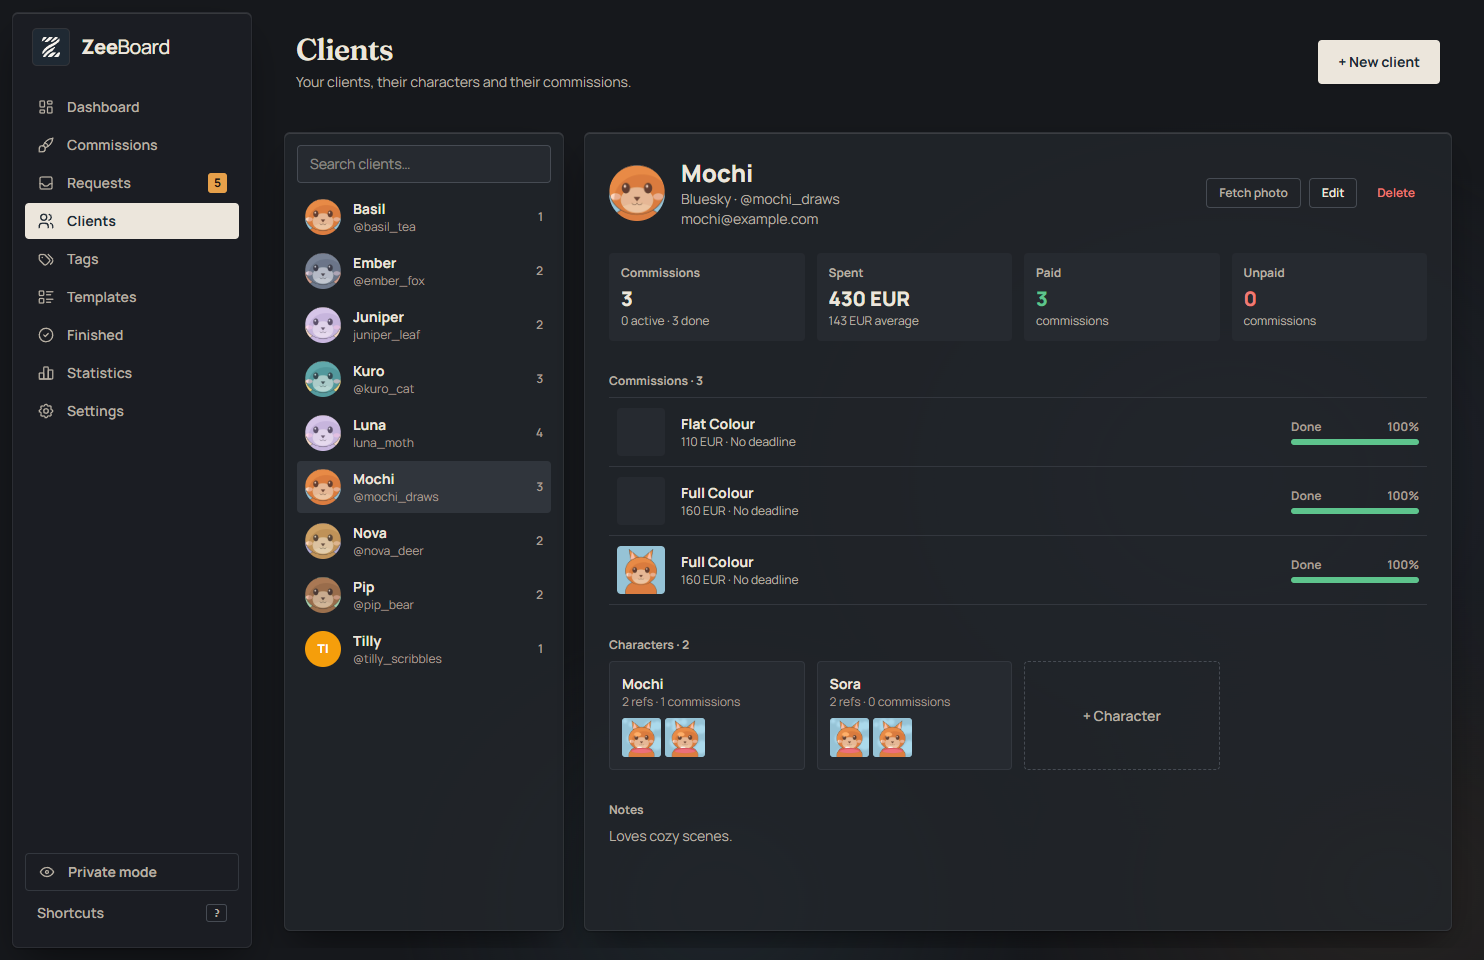
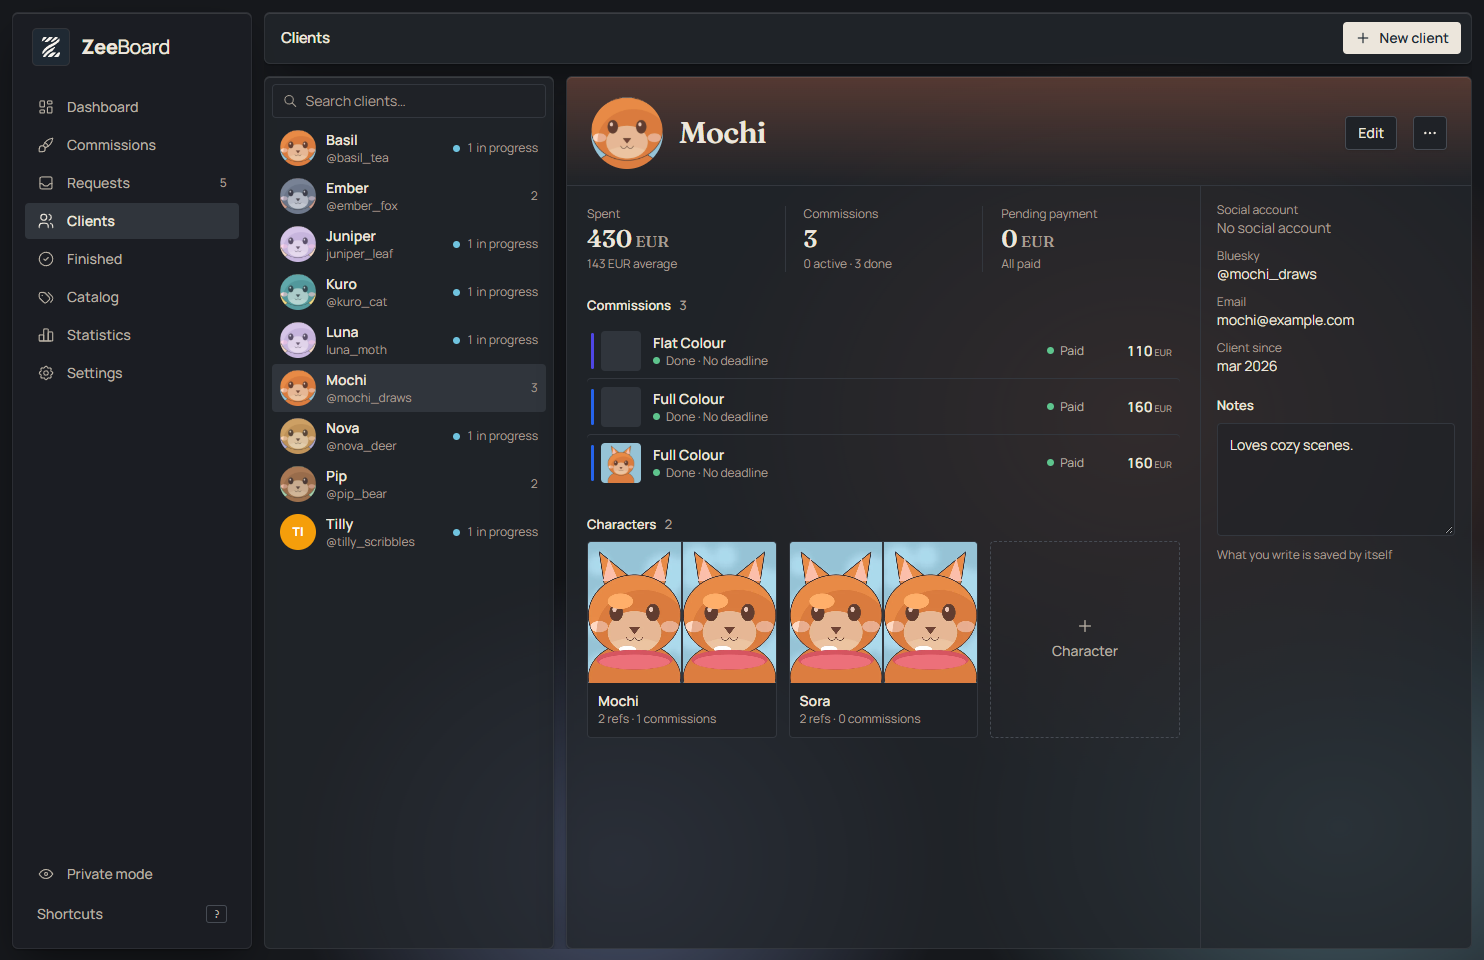
Capturas del README y la página con datos de ejemplo y el diseño nuevo; arreglos visuales hallados al capturar

diff --git a/src/pages/StatisticsPage.tsx b/src/pages/StatisticsPage.tsx
@@ -152,7 +152,7 @@ function StatisticsPage() {
                     <thead>
                       <tr className="text-right text-faint">
                         {[t("Template"), t("Pieces"), t("Received"), t("Average"), t("Hours"), t("Days"), t("Per hour")].map((label, index) => (
-                          <th key={label} className={`pb-2 pl-3 font-medium whitespace-nowrap ${index === 0 ? "pl-0 text-left" : ""}`}>
+                          <th key={label} className={`pb-2 font-medium whitespace-nowrap ${index === 0 ? "text-left" : "pl-3"}`}>
                             {label}
                           </th>
                         ))}
@@ -193,7 +193,7 @@ function StatisticsPage() {
                         <span className="text-muted tabular-nums">
                           {t(client.pieces === 1 ? "{n} piece" : "{n} pieces", { n: client.pieces })} · <b className="font-semibold text-ink">{formatMoney(client.net)}</b>
                         </span>
-                        <span className="col-start-2 col-end-4 -mt-0.5 h-1 overflow-hidden rounded-sm bg-line">
+                        <span className="col-start-2 col-end-4 mt-1 mb-1 h-1 overflow-hidden rounded-sm bg-line">
                           <i className="block h-full bg-ink" style={{ width: `${(client.net / bestClient) * 100}%` }} />
                         </span>
                       </div>

diff --git a/src/pages/FinishedPage.tsx b/src/pages/FinishedPage.tsx
@@ -275,7 +275,7 @@ function FinishedPage({
                 return (
                   <section key={group.key}>
                     {/* Group header stays at the top while its images scroll */}
-                    <div className="sticky top-0 z-10 flex items-baseline gap-2.5 bg-gradient-to-b from-[var(--glass-heavy)] from-70% to-transparent pt-4 pb-2.5">
+                    <div className="sticky top-0 z-10 flex items-baseline gap-2.5 bg-gradient-to-b from-[var(--glass)] from-70% to-transparent pt-4 pb-2.5">
                       <h3 className="font-display text-[22px] leading-tight font-semibold tracking-tight first-letter:uppercase">
                         {groupMode === "client" ? hide(group.label) : group.label}
                       </h3>

diff --git a/src/pages/DashboardPage.tsx b/src/pages/DashboardPage.tsx
@@ -247,7 +247,7 @@ function DashboardPage({ onOpenCommissionsPage, onNewCommission }: { onOpenCommi
                       </div>
 
                       {deadlineStatus ? (
-                        <span className={`${deadlineStatus.className} justify-self-end`} title={deadlineStatus.label}>{deadlineStatus.short}</span>
+                        <span className={`${deadlineStatus.className} justify-self-end whitespace-nowrap`} title={deadlineStatus.label}>{deadlineStatus.short}</span>
                       ) : (
                         <span className="text-xs text-faint">{t("No deadline")}</span>
                       )}

diff --git a/src/pages/commissions/CommissionList.tsx b/src/pages/commissions/CommissionList.tsx
@@ -86,7 +86,7 @@ function CommissionList({
                     </span>
 
                     {deadlineStatus ? (
-                      <span className={`shrink-0 ${deadlineStatus.className}`}>{deadlineStatus.short}</span>
+                      <span className={`shrink-0 whitespace-nowrap ${deadlineStatus.className}`}>{deadlineStatus.short}</span>
                     ) : (
                       <span title={t("Days since you accepted it")} className={`shrink-0 text-xs font-semibold tabular-nums ${ageTone || "text-faint"}`}>
                         {ageInDays(commission, new Date())}d

diff --git a/docs/index.html b/docs/index.html
@@ -39,7 +39,7 @@
         </div>
         <p class="hint">Gratis y de código abierto (MIT). Las capturas usan datos de ejemplo inventados.</p>
       </div>
-      <img class="shot" src="images/dashboard.png" alt="Panel principal de ZeeBoard" width="1474" height="1253">
+      <img class="shot" src="images/dashboard.png" alt="Panel principal de ZeeBoard" width="1484" height="960">
     </section>
 
     <div id="funciones">

diff --git a/README.md b/README.md
@@ -291,7 +291,7 @@ Skip the email: draw on the iPad and send the images straight to a commission st
 
 ## Settings
 
-<img src="docs/images/settings-general.png" alt="Settings: appearance and pricing" width="900">
+<img src="docs/images/settings-general.png" alt="Settings: prices and payments" width="900">
 
 Sections on the left, the chosen one on the right. Everything saves by itself.
 
@@ -303,7 +303,7 @@ Sections on the left, the chosen one on the right. Everything saves by itself.
 
 ### Backups
 
-<img src="docs/images/settings-backups.png" alt="Settings: delivery and backups" width="900">
+<img src="docs/images/settings-backups.png" alt="Settings: backups" width="900">
 
 - **Export** saves the database and all images into a dated folder, wherever you choose.
 - **Restore** replaces your data with a backup. First it keeps a **safety copy of your current data**, and it never deletes images. The app reloads when it finishes.
@@ -312,7 +312,7 @@ Sections on the left, the chosen one on the right. Everything saves by itself.
 
 ### Exporting data
 
-<img src="docs/images/settings-data.png" alt="Settings: PayPal import, export and storage" width="900">
+<img src="docs/images/settings-data.png" alt="Settings: data and storage" width="900">
 
 Three CSV exports: **Commissions** (one row each), **Payments** (date, paid, received and fee) and a **Quarterly summary** by quarter and currency (currencies are never added together). They use a semicolon and a decimal comma and include a BOM, so **Excel opens them correctly** in Spanish and English locales. The **Storage** card shows how much space the images, thumbnails and database use.
 

diff --git a/REDISENO.md b/REDISENO.md
@@ -392,6 +392,9 @@ De 2481 a 1466 líneas, **sin cambiar nada de su comportamiento**. Las piezas qu
 - Sin tocar: el visor de imágenes (`FocusViewer`) y las capas de imagen a pantalla completa, que son visores y no formularios.
 - `PageHeader.tsx` borrado: ninguna pantalla lo usa ya.
 
+**Documentación (hecha):** README y `docs/index.html` con los textos del diseño nuevo y **capturas rehechas con la instancia de demostración** (`com.zeeboard.demo`: clientes, precios, rutas y dibujos inventados; nunca datos reales). Se retira `tags.png` (el Catálogo es una sola pantalla). Receta: `npx tauri dev --config <json con identifier com.zeeboard.demo>` y recortar la captura al área cliente de la ventana (1500×1000 → 1484×960). Ojo si algún día se vuelve a hacer: la carpeta de datos debe crearse desde un proceso fuera del paquete de Claude (si no, Windows la virtualiza y la app no ve las imágenes), y no se debe capturar Ajustes → iPad (enseña la IP real).
+- Arreglos hallados al capturar: la cabecera fija de «Terminadas» dibujaba una banda de otro color, las barras de «Mejores clientes» se pegaban al texto, y la etiqueta «1d de retraso» se partía en dos líneas en español.
+
 ### Limpieza de código (hecha)
 Revisión de todo lo que solo ocupaba sitio, sin tocar datos del usuario:
 - 20 traducciones de `es.ts` que ya no usaba ningún código (textos antiguos de cabeceras, avisos y la pantalla de Plantillas/Etiquetas).
